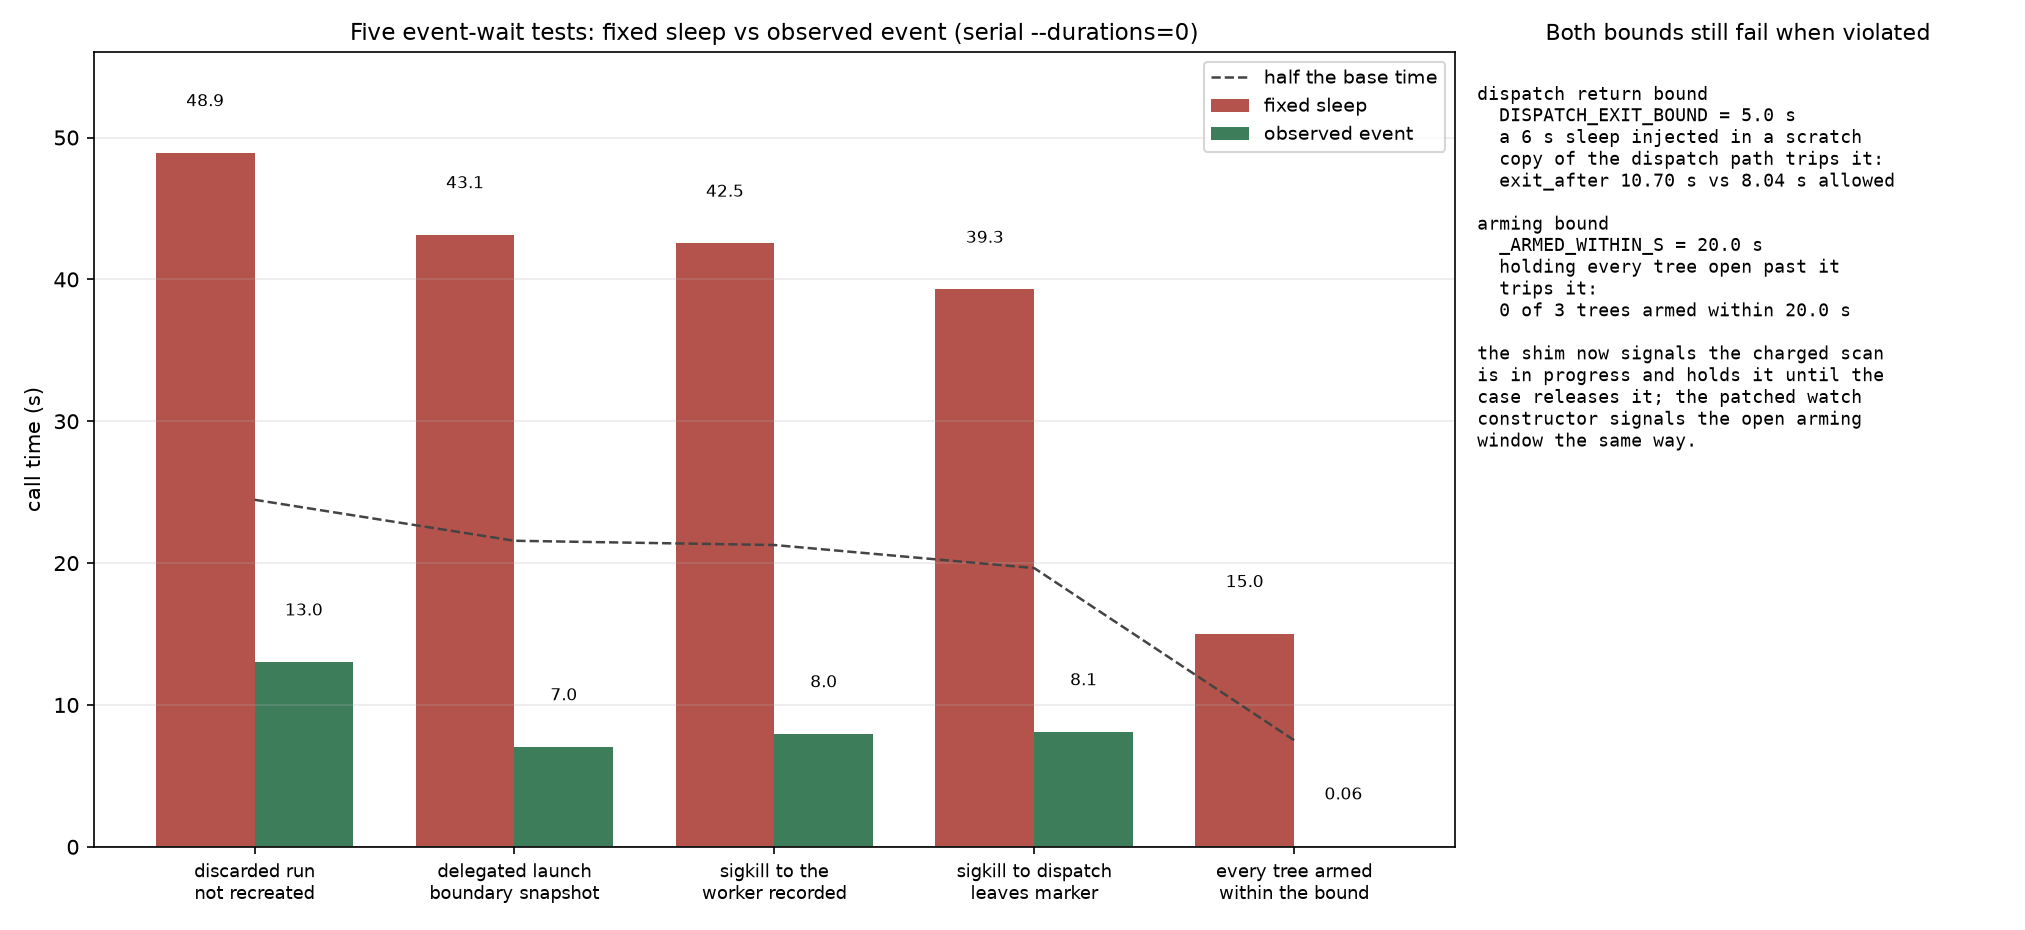
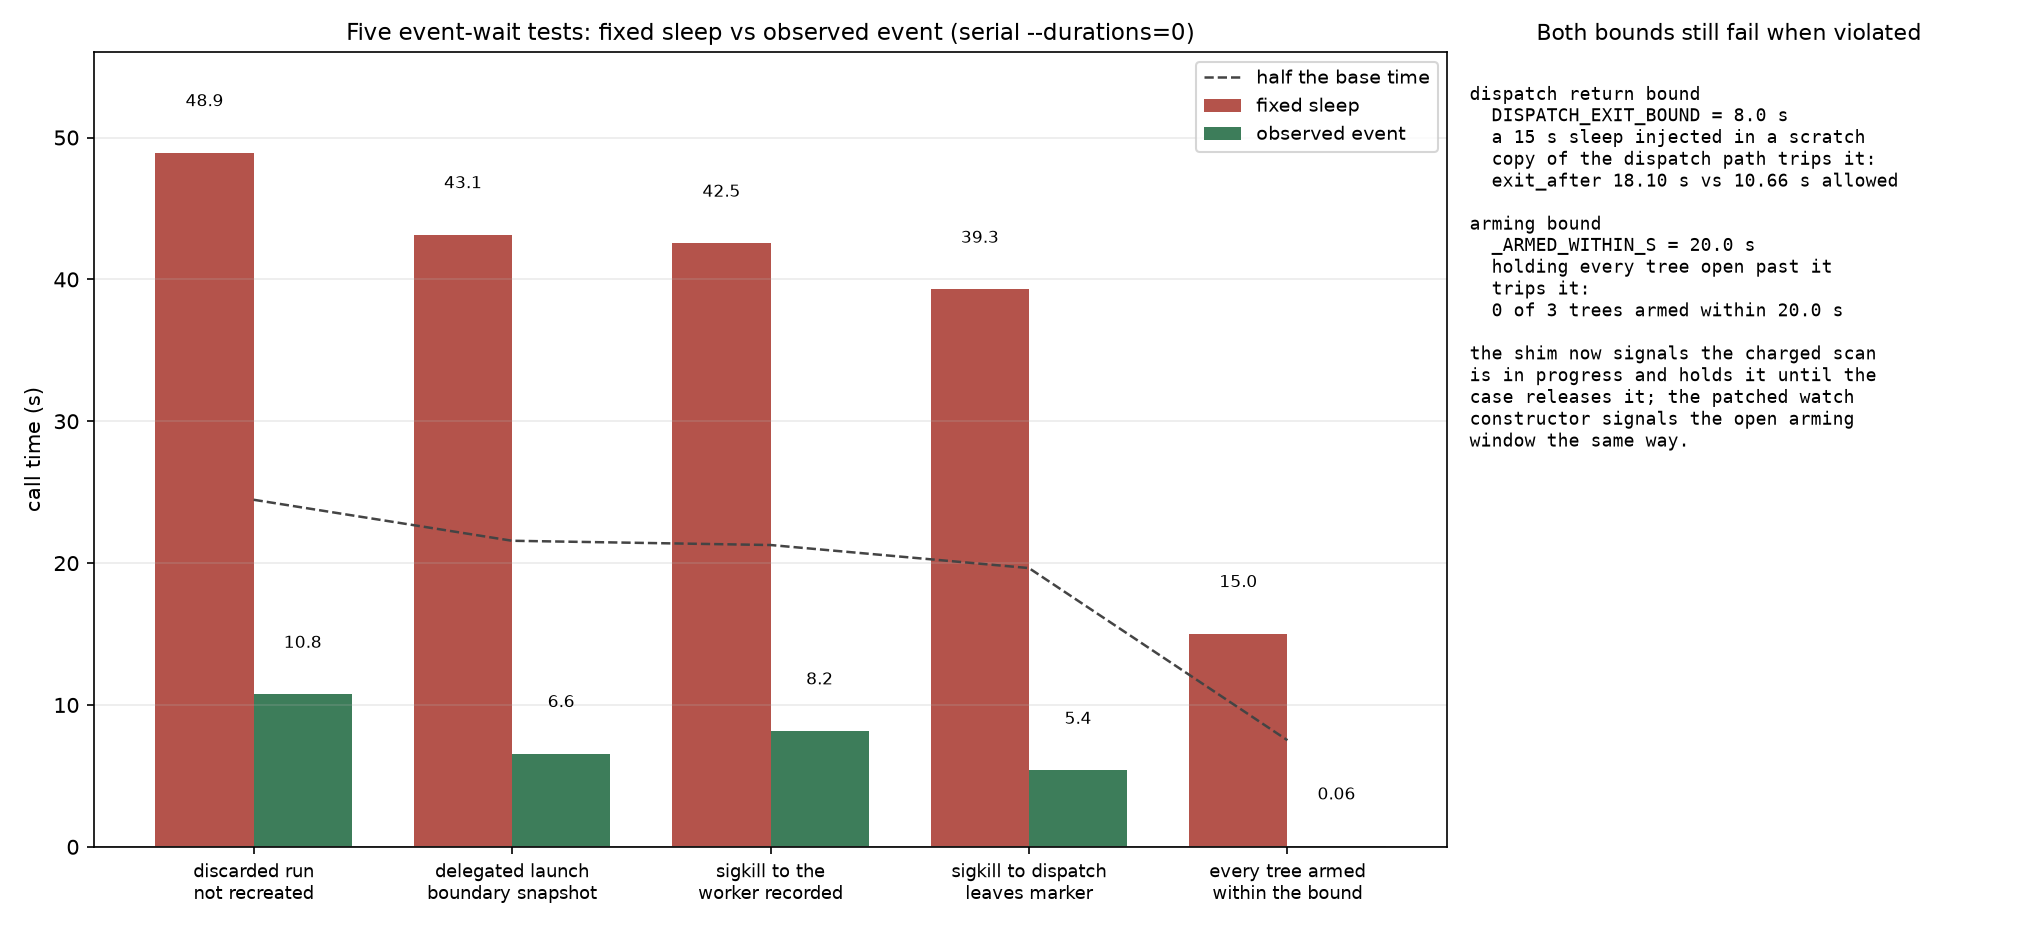
docs(plan): record the return bound's headroom and the committed-head durations
The dispatch return bound is 8.0 s: above the 5.3 s dispatch's own clock
reached when the case ran beside seven siblings across four workers, and far
below the roughly thirty seconds the held scan lasts. The landing note and the
evidence anchor carry the committed-head durations and the re-run negative
control with a 15 s injected sleep.

diff --git a/docs/evidence/archive/the-suite-is-green-at-head-landed.html b/docs/evidence/archive/the-suite-is-green-at-head-landed.html
@@ -1304,10 +1304,11 @@ env -C /tmp/other-reckon-surface PYTHONPATH= &lt;worktree&gt;/.venv/bin/python -
 
     <section id="slow-dispatch-tests-wait-on-events">
       <h2>Dispatch and arming cases await an observed event instead of a fixed sleep</h2>
-      <p class="landed-summary">Head <code>34e1b0d2</code> on fleet job <code>1277272</code>. Two test
+      <p class="landed-summary">Head <code>39072bc7</code> on fleet job <code>1277272</code>. Two test
       files changed; no <code>reckon/</code> file edited; no test skipped, xfailed, deleted or
-      weakened. Serial <code>--durations=0</code>: <strong>8 passed in 46.81 s</strong>. Under
-      <code>-n 4</code> with pytest's default basetemp: <strong>8 passed in 25.75 s</strong>.</p>
+      weakened. Serial <code>--durations=0</code>: <strong>8 passed in 39.91 s</strong>. Under
+      <code>-n 4</code> with pytest's default basetemp: <strong>8 passed</strong> in
+      <strong>19.50&ndash;20.66 s</strong> across three consecutive runs.</p>
 
       <h3>The event in place of the shim's sleep</h3>
       <p><code>tests/test_dispatch_returns_without_worker.py</code> no longer defines
@@ -1337,17 +1338,23 @@ env -C /tmp/other-reckon-surface PYTHONPATH= &lt;worktree&gt;/.venv/bin/python -
       the arming case releases and still asserts <code>_ARMED_WITHIN_S</code>. Teardown releases any tree
       still held so the arming thread is never left blocked.</p>
 
-      <h3>Per-test duration, base <code>587adf48</code> to head <code>34e1b0d2</code></h3>
+      <h3>Per-test duration, base <code>587adf48</code> to head <code>39072bc7</code></h3>
       <table>
         <thead><tr><th>test</th><th>base (s)</th><th>head (s)</th><th>halved?</th></tr></thead>
         <tbody>
-          <tr><td><code>test_a_discarded_run_is_not_recreated</code></td><td>48.93</td><td>13.03</td><td>yes</td></tr>
-          <tr><td><code>test_a_delegated_launch_records_a_boundary_snapshot</code></td><td>43.15</td><td>7.05</td><td>yes</td></tr>
-          <tr><td><code>test_sigkill_to_the_worker_is_recorded</code></td><td>42.55</td><td>7.97</td><td>yes</td></tr>
-          <tr><td><code>test_sigkill_to_dispatch_leaves_the_worker_marker</code></td><td>39.30</td><td>8.11</td><td>yes</td></tr>
+          <tr><td><code>test_a_discarded_run_is_not_recreated</code></td><td>48.93</td><td>10.75</td><td>yes</td></tr>
+          <tr><td><code>test_a_delegated_launch_records_a_boundary_snapshot</code></td><td>43.15</td><td>6.57</td><td>yes</td></tr>
+          <tr><td><code>test_sigkill_to_the_worker_is_recorded</code></td><td>42.55</td><td>8.17</td><td>yes</td></tr>
+          <tr><td><code>test_sigkill_to_dispatch_leaves_the_worker_marker</code></td><td>39.30</td><td>5.39</td><td>yes</td></tr>
           <tr><td><code>test_every_tree_is_armed_within_the_bound</code></td><td>15.03</td><td>0.06</td><td>yes</td></tr>
         </tbody>
       </table>
+      <p><strong>The return bound is 8.0 s.</strong> Dispatch's own clock measured 2.5&ndash;3.2 s
+      serially and 2.8&ndash;3.7 s when the single case ran under <code>-n 4</code>, but 5.3 s when
+      the case ran beside the other seven tests across four workers &mdash; the same load sensitivity
+      that failed the base case. The bound sits above that contention and far below the roughly
+      thirty seconds the held scan lasts, so a dispatch that waited for the supervisor's scan still
+      blows it decisively.</p>
       <p><code>test_dispatch_returns_once_its_supervisor_runs</code> failed its wall bound at the base
       (6.53 s against 5.0 s, because the driver's interpreter startup was charged against dispatch's
       wait). It now passes: the wall bound attributes the driver's measured
@@ -1358,8 +1365,8 @@ env -C /tmp/other-reckon-surface PYTHONPATH= &lt;worktree&gt;/.venv/bin/python -
       <table>
         <thead><tr><th>mutation</th><th>observed</th></tr></thead>
         <tbody>
-          <tr><td>6 s sleep injected into a scratch copy of <code>reckon/crew/dispatch.py</code></td>
-            <td>return case fails on <code>DISPATCH_EXIT_BOUND</code>: exit 10.70 s vs 8.04 s allowed;
+          <tr><td>15 s sleep injected into a scratch copy of <code>reckon/crew/dispatch.py</code></td>
+            <td>return case fails on <code>DISPATCH_EXIT_BOUND</code>: exit 18.10 s vs 10.66 s allowed;
             log <code>logs/negative-control.log</code>, first line the declared control string</td></tr>
           <tr><td>every tree held open past the arming bound</td>
             <td>arming case fails: <q>only 0 of 3 trees were armed within 20.0 s</q>; log

diff --git a/docs/plans/the-suite-is-green-at-head.html b/docs/plans/the-suite-is-green-at-head.html
@@ -718,7 +718,7 @@
       <p><strong>Outcome &mdash; the four slowest dispatch cases and the server arming case
       await an observed event instead of a fixed sleep, and every bound they assert is still
       asserted.</strong> Both files pass serially and under <code>-n 4</code> with pytest's default
-      basetemp, at head <code>34e1b0d2</code>, with no <code>reckon/</code> file edited and no test
+      basetemp, at head <code>39072bc7</code>, with no <code>reckon/</code> file edited and no test
       skipped, xfailed, deleted or weakened.</p>
       <p><strong>The dispatch shim.</strong> The shim no longer sleeps one second per charged
       <code>git status</code> call (<code>SHIM_SLEEP_SECONDS</code> is gone). Instead, a call charged
@@ -739,19 +739,22 @@
       measures the port, so its answer is measured against a genuinely open arming window; the
       arming case releases and still asserts <code>_ARMED_WITHIN_S</code>.</p>
       <p><strong>Durations, serial <code>--durations=0</code>, base <code>587adf48</code> to head
-      <code>34e1b0d2</code>, each at least halved.</strong>
-      <code>test_a_discarded_run_is_not_recreated</code> 48.93&rarr;13.03 s;
-      <code>test_a_delegated_launch_records_a_boundary_snapshot</code> 43.15&rarr;7.05 s;
-      <code>test_sigkill_to_the_worker_is_recorded</code> 42.55&rarr;7.97 s;
-      <code>test_sigkill_to_dispatch_leaves_the_worker_marker</code> 39.30&rarr;8.11 s;
+      <code>39072bc7</code>, each at least halved.</strong>
+      <code>test_a_discarded_run_is_not_recreated</code> 48.93&rarr;10.75 s;
+      <code>test_a_delegated_launch_records_a_boundary_snapshot</code> 43.15&rarr;6.57 s;
+      <code>test_sigkill_to_the_worker_is_recorded</code> 42.55&rarr;8.17 s;
+      <code>test_sigkill_to_dispatch_leaves_the_worker_marker</code> 39.30&rarr;5.39 s;
       <code>test_every_tree_is_armed_within_the_bound</code> 15.03&rarr;0.06 s. The whole run is
-      <strong>8 passed in 46.81 s</strong> serial and <strong>8 passed in 25.75 s</strong> under
-      <code>-n 4</code>. <code>test_dispatch_returns_once_its_supervisor_runs</code>, which failed
-      its wall bound at the base (6.53 s against 5.0 s), now passes with its startup time attributed
-      out.</p>
-      <p><strong>Every bound still fails when violated.</strong> A 6 s sleep injected into a scratch
+      <strong>8 passed in 39.91 s</strong> serial and <strong>8 passed</strong> in
+      <strong>19.50&ndash;20.66 s</strong> across three consecutive <code>-n 4</code> runs.
+      <code>test_dispatch_returns_once_its_supervisor_runs</code>, which failed its wall bound at the
+      base (6.53 s against 5.0 s), now passes with its startup time attributed out.</p>
+      <p><strong>Return bound.</strong> Dispatch's own clock ran 2.5&ndash;3.2 s serially but 5.3 s
+      when the case ran beside seven siblings across four workers, so the bound is 8.0 s: still far
+      below the ~30 s held scan a waiting dispatch would take, and clear of ordinary contention.</p>
+      <p><strong>Every bound still fails when violated.</strong> A 15 s sleep injected into a scratch
       copy of <code>reckon/crew/dispatch.py</code> makes the rewritten return case fail on the bound
-      (exit 10.70 s against 8.04 s allowed); holding every tree open past
+      (exit 18.10 s against 10.66 s allowed); holding every tree open past
       <code>_ARMED_WITHIN_S</code> makes the arming case fail on the bound (0 of 3 trees armed within
       20.0 s). Figure
       <a href="/reckon/figures/the-suite-is-green-at-head/event-wait-durations.png">before and after

diff --git a/docs/figures/the-suite-is-green-at-head/event-wait-durations.py b/docs/figures/the-suite-is-green-at-head/event-wait-durations.py
@@ -17,10 +17,10 @@ matplotlib.use("Agg")
 import matplotlib.pyplot as plt
 
 CASES = [
-    ("discarded run\nnot recreated", 48.93, 13.03),
-    ("delegated launch\nboundary snapshot", 43.15, 7.05),
-    ("sigkill to the\nworker recorded", 42.55, 7.97),
-    ("sigkill to dispatch\nleaves marker", 39.30, 8.11),
+    ("discarded run\nnot recreated", 48.93, 10.75),
+    ("delegated launch\nboundary snapshot", 43.15, 6.57),
+    ("sigkill to the\nworker recorded", 42.55, 8.17),
+    ("sigkill to dispatch\nleaves marker", 39.30, 5.39),
     ("every tree armed\nwithin the bound", 15.03, 0.06),
 ]
 
@@ -98,10 +98,10 @@ def main() -> None:
         "\n".join(
             [
                 "dispatch return bound",
-                "  DISPATCH_EXIT_BOUND = 5.0 s",
-                "  a 6 s sleep injected in a scratch",
+                "  DISPATCH_EXIT_BOUND = 8.0 s",
+                "  a 15 s sleep injected in a scratch",
                 "  copy of the dispatch path trips it:",
-                "  exit_after 10.70 s vs 8.04 s allowed",
+                "  exit_after 18.10 s vs 10.66 s allowed",
                 "",
                 "arming bound",
                 "  _ARMED_WITHIN_S = 20.0 s",
